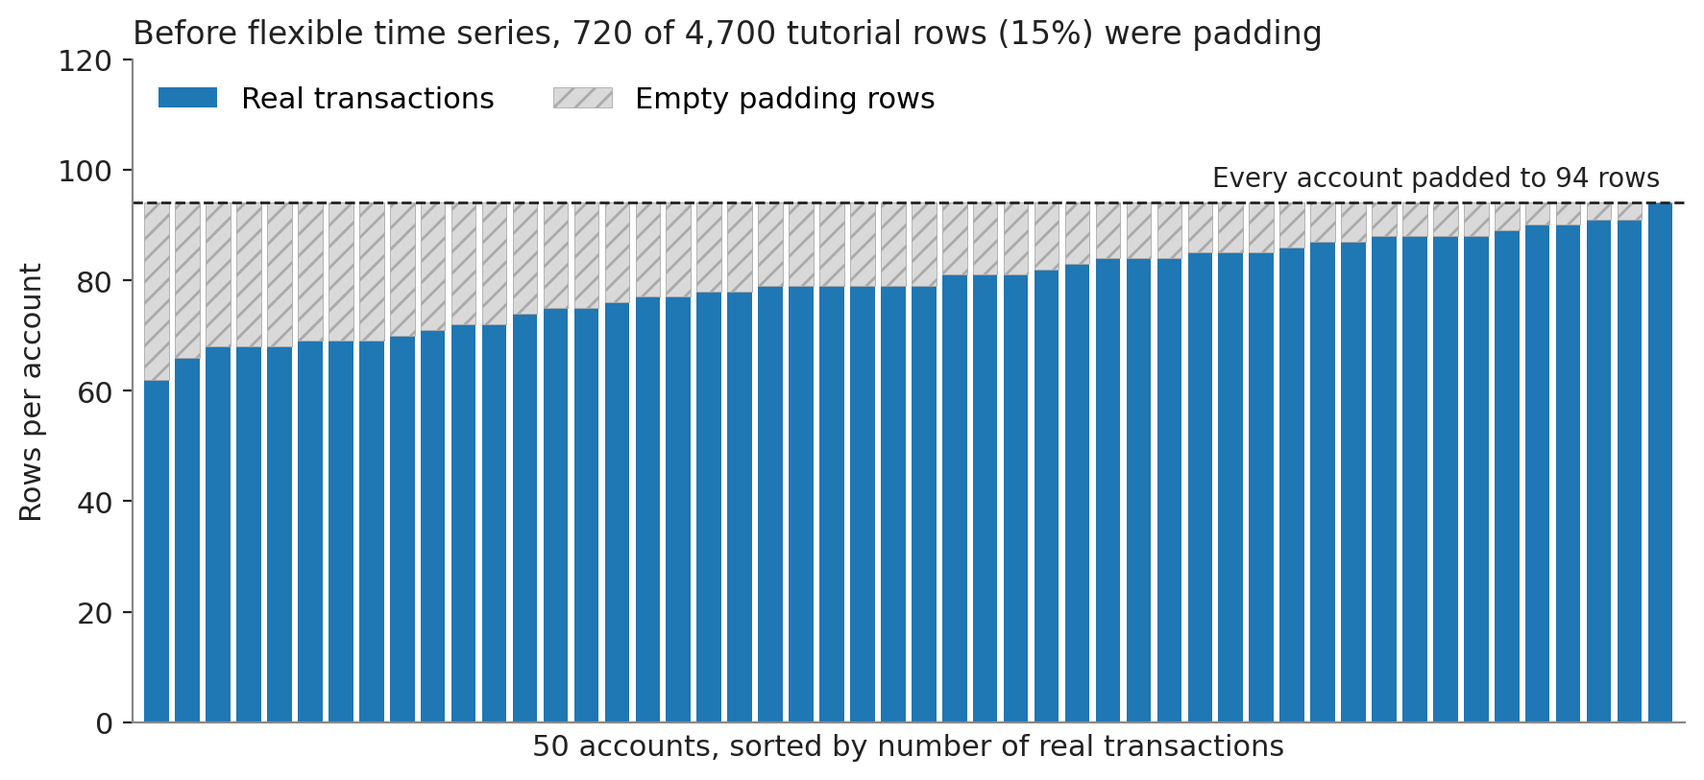
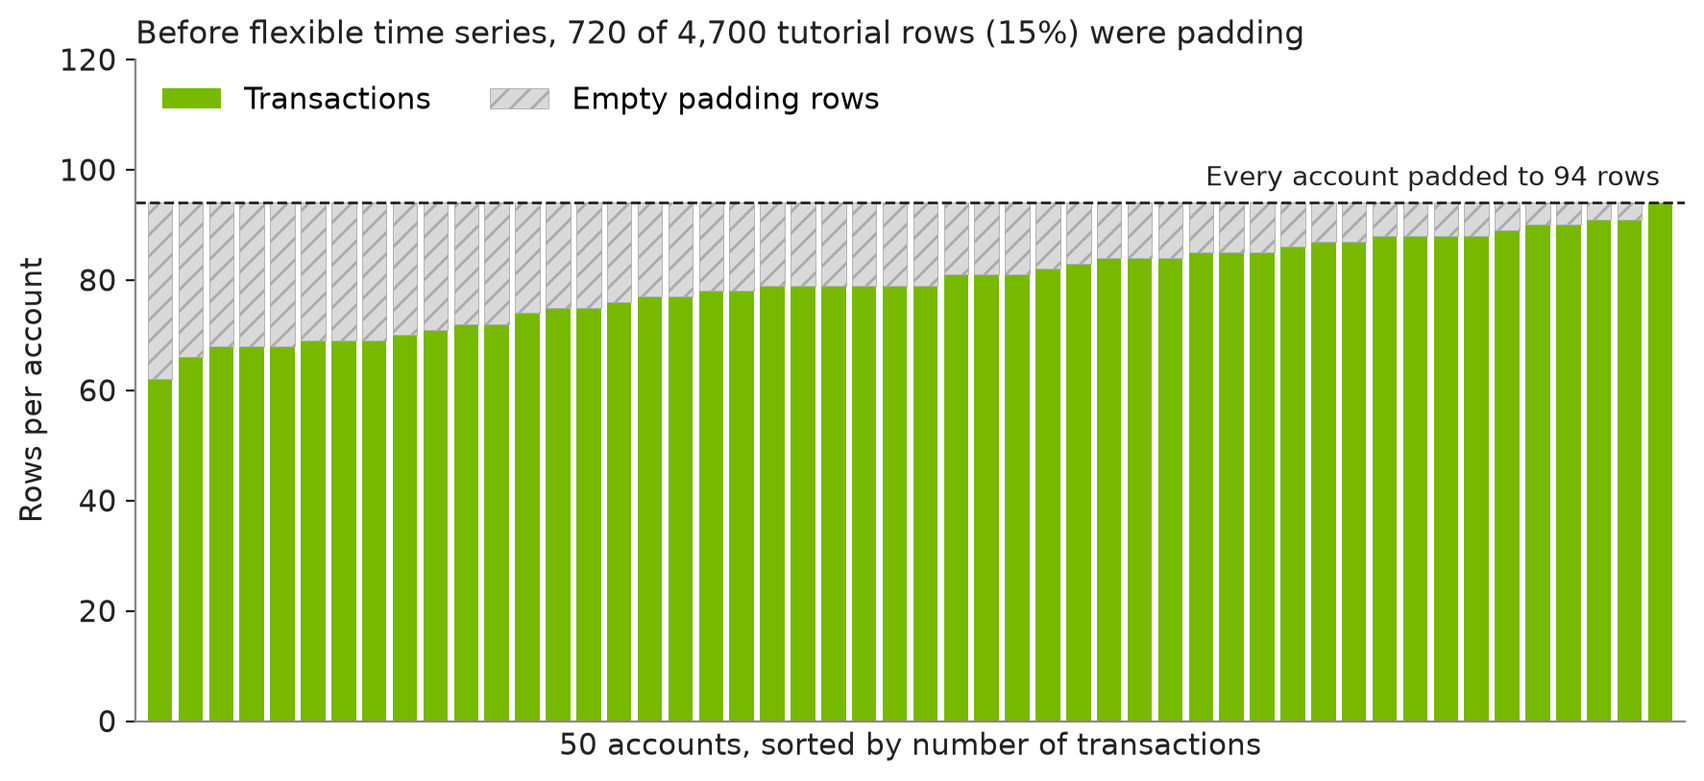
docs: address review feedback on flexible time series dev note

diff --git a/docs/dev-notes/posts/flexible-time-series.md b/docs/dev-notes/posts/flexible-time-series.md
@@ -1,109 +1,113 @@
 ---
 # SPDX-FileCopyrightText: Copyright (c) 2025-2026 NVIDIA CORPORATION & AFFILIATES. All rights reserved.
 # SPDX-License-Identifier: Apache-2.0
-date: 2026-10-21
+date: 2026-11-19
 authors:
   - seayang
 compact_tables: true
 ---
 
-# Flexible Time Series in NeMo Safe Synthesizer: Bring Your Sequences As They Are
+# Flexible Time Series
 
-Real sequences are messy. Bank accounts open and close on different days and transact whenever their owners shop. Support conversations run for six turns or seventy-five. Sensors drop out and come back. Until recently, NeMo Safe Synthesizer time-series mode asked every sequence in a dataset to look the same, with the same length, the same start and stop time, and the same fixed interval between records.
+Sequence data from real-world applications is messy. Bank accounts open and close on different days and transact whenever their owners shop. Support conversations run for six turns or seventy-five. Sensors drop out and come back. Until recently, NeMo Safe Synthesizer's time-series mode required every sequence in a dataset to look the same, with the same length, the same start and stop time, and the same fixed interval between records.
 
-That requirement is gone. Time-series mode now accepts groups with different lengths, different start and stop times, and irregular intervals. There is no new setting to turn on. You point NeMo Safe Synthesizer at your timestamp column, and it learns where each sequence begins, how it moves through time, and when it ends.
+That requirement is gone now. As of release `v0.1.15`, time-series mode accepts groups with different lengths, different start and stop times, and irregular intervals. There is no new setting to turn on. You point NeMo Safe Synthesizer at your data, configure the timestamp column, and it learns where each sequence begins, how it moves through time, and when it ends.
 
 <!-- more -->
 
-Flexible time series shipped in NeMo Safe Synthesizer `v0.1.15`. In this dev note, we cover why the old rules existed, what the workaround cost, how flexible processing works, and the research spike that decided how the model learns when a sequence ends.
+In this dev note, we cover why the old rules existed, what the workaround cost, how flexible processing works, and the experiments that decided how the model learns when a sequence ends.
 
-## The Four Rules Time Series Used to Follow
+## How Time Series Mode Used to Work
 
-Time-series mode was built on a simple idea. If every group shares the same start time, stop time, interval, and length, the generator can calculate exactly how many rows each synthetic group needs. It starts at the common start timestamp, steps forward by the interval, and stops at the common stop timestamp. The model never has to decide when a sequence is finished.
+Time-series mode was built for a simple setting. If every group shares the same start time, stop time, interval, and length, the generator can calculate exactly how many rows each synthetic group needs. It starts at the common start timestamp, steps forward by the interval, and stops at the common stop timestamp. The model never has to decide when a sequence is finished.
 
 That design works well for synchronized data, such as a fleet of sensors that all report every 15 minutes over the same day. It breaks down for most other ordered data.
 
 - Transaction histories have irregular timing. A customer may make three purchases in an hour and then none for a week.
 - Accounts, devices, and users join and leave at different times, so their histories start and stop on different dates.
-- Conversations and event logs vary in length, and their order is a position in a workflow rather than a wall-clock interval.
+- Conversations and event logs vary in length, and their order comes from each step's position in a workflow.
 
-Users asked us for exactly these cases. The only way to fit them into the old pipeline was to reshape the data by hand until every group looked identical.
+Users asked us how to use the library for exactly these styles of input data, but the workaround was awkward, requiring the user to preprocess the data manually so every group looked identical.
 
-### What the workaround cost
+### The cost of padding every sequence to one length
 
-Our own [financial transactions case study](does-nemo-safe-synthesizer-actually-work.md) is a good example. Its 50 accounts hold between 62 and 94 real transactions each, with irregular timestamps. To run it in time-series mode, the tutorial dataset padded every account to 94 rows and added a `txn_index` column, numbered 1 to 94 in each account, to stand in for the timestamp.
+Our own [financial transactions case study](does-nemo-safe-synthesizer-actually-work.md) is a good example. Its transaction ledger was generated for that case study and contains no real customer data. In a deployment, the input data would be your organization's own records. The ledger's 50 accounts hold between 62 and 94 transactions each, with irregular timestamps. To run it in time-series mode, the tutorial dataset padded every account to 94 rows and added a `txn_index` column, numbered 1 to 94 in each account, to stand in for the timestamp.
 
-![Before flexible time series, 720 of the 4,700 tutorial rows were empty padding](assets/flexible-time-series/padded-tutorial-dataset.png){: style="max-width: 820px; width: 100%; display: block; margin: 1.25rem auto;"}
-
-Each bar is one account. The blue part is real transactions, and the hatched part is padding added to reach 94 rows. Shorter accounts carried up to 32 empty rows.
+<figure markdown="span">
+  ![Before flexible time series, 720 of the 4,700 tutorial rows were empty padding](assets/flexible-time-series/padded-tutorial-dataset.png){: style="max-width: 820px; width: 100%; display: block; margin: 1.25rem auto;"}
+  <figcaption>Each vertical bar is one account. The green part holds the account's transactions, and the hatched part is padding added to reach 94 rows. Shorter accounts had up to 32 empty rows.</figcaption>
+</figure>
 
 The workaround had three costs.
 
-- Wasted training data: 720 of 4,700 rows, about 15%, carried no transaction at all, and the model still had to learn them.
-- Wasted generation: the model also had to generate the padding rows for every shorter account. Generation tokens cost more than training tokens, because the model produces them one at a time.
-- Cleanup after generation: synthetic output could contain padded rows, so the tutorial had to filter them before any analysis.
+- 720 of 4,700 training rows, about 15%, contained no transaction at all, and the model still had to learn them.
+- The model also had to generate the padding rows for every shorter account. Generation is often the slowest step in time-series mode, so every unused token made that step slower.
+- The synthetic output could contain padding rows, so users had to remove them manually from the output of NeMo Safe Synthesizer before any analysis.
 
-## How It Works
+## How Flexible Time Series Works
 
-### Automatic routing
+### Checking whether sequences are identical
 
-During training preprocessing, NeMo Safe Synthesizer checks the four rules from the previous section.
+During training preprocessing, NeMo Safe Synthesizer checks the four conditions that the original design required.
 
 - Do all groups have the same number of records?
 - Do all groups start at the same timestamp?
 - Do all groups stop at the same timestamp?
 - Is there one consistent interval within and across groups?
 
-If every answer is yes, the data keeps the original deterministic path. The endpoint can be calculated directly, so there is nothing for the model to learn about stopping. If any answer is no, the data takes the flexible path.
+If every answer is yes, the library keeps to the original code path for deterministic sequence timing. The endpoint can be calculated directly, so there is nothing for the model to learn about stopping. If any answer is no, the library takes the flexible path. We call this check routing.
 
-### Learning where each sequence ends
+### Teaching the model where each sequence ends
 
 The flexible path adds two internal columns to the training data.
 
 - `_time_idx` counts rows within each group, starting at 0. Generation checks that each new row advances it by exactly one.
-- `_is_last_row` is `true` on each group's final real row and `false` everywhere else.
+- `_is_last_row` is `True` on each group's final row and `False` everywhere else.
 
-Here are the last five rows of one real account in the training data.
+Here are the last five rows of one account in the training data.
 
 ```csv
-acct_id,_time_idx,cardholder,state,timestamp,merchant_cat,merchant,txn_amount,_is_last_row
-ACCT-013E4482,70,Alexis Parsons,CA,2025-01-28 19:54:09,entertainment,AMC Theatres,87.39,False
-ACCT-013E4482,71,Alexis Parsons,CA,2025-01-28 22:20:56,entertainment,AMC Theatres,61.56,False
-ACCT-013E4482,72,Alexis Parsons,CA,2025-01-29 17:31:22,retail,Target,139.57,False
-ACCT-013E4482,73,Alexis Parsons,CA,2025-01-31 07:44:11,subscription,Netflix,19.99,False
-ACCT-013E4482,74,Alexis Parsons,CA,2025-01-31 16:01:55,grocery,Whole Foods Market,87.15,True
+acct_id,_time_idx,_is_last_row,cardholder,state,timestamp,merchant_cat,merchant,txn_amount
+ACCT-013E4482,70,False,Alexis Parsons,CA,2025-01-28 19:54:09,entertainment,AMC Theatres,87.39
+ACCT-013E4482,71,False,Alexis Parsons,CA,2025-01-28 22:20:56,entertainment,AMC Theatres,61.56
+ACCT-013E4482,72,False,Alexis Parsons,CA,2025-01-29 17:31:22,retail,Target,139.57
+ACCT-013E4482,73,False,Alexis Parsons,CA,2025-01-31 07:44:11,subscription,Netflix,19.99
+ACCT-013E4482,74,True,Alexis Parsons,CA,2025-01-31 16:01:55,grocery,Whole Foods Market,87.15
 ```
 
-The real `timestamp` stays in the data as an ordinary generated column, so each synthetic account keeps its own irregular timing. `_time_idx` gives the generator a regular step to check, and `_is_last_row` teaches the model what a final transaction looks like.
+The source `timestamp` stays in the data as an ordinary generated column, so each synthetic account keeps its own irregular timing. `_time_idx` gives the generator a regular step to check, and `_is_last_row` teaches the model what a final transaction looks like.
 
 During generation, each group grows one row at a time.
 
 - A row is accepted only if `_time_idx` advances by one and the source timestamp does not go backward.
-- The group ends at the first accepted row with `_is_last_row` set to `true`.
+- The group ends at the first accepted row with `_is_last_row` set to `True`.
 - The longest group seen in training acts as a hard cap, so a sequence that never emits the marker still stops.
-- Both control columns are removed, and the original column order is restored before the data is returned.
+- Before the synthetic data is returned from the library, both internal columns are removed and the original column order is restored.
 
-Generation is `COMPLETE` only when every group finishes. Rows from groups that fail are discarded rather than returned as partial sequences.
+Generation is `COMPLETE` only when every group finishes. Rows from groups that fail are discarded, so the output never contains partial sequences.
 
-## Why a Final-Row Marker
+## Marking the Last Row vs. Padding Every Sequence
 
-Before building the feature, we ran a research spike to decide how the model should learn where a sequence ends. We compared two representations, and both used the same `_time_idx` column.
+Before building the feature, we ran a series of experiments to decide how the model should learn where a sequence ends. We compared two representations, and both used the same `_time_idx` column.
 
-- Final-row marker, `idx_last`: add `_is_last_row` as shown above. No rows are added.
-- Padding, `idx_padding`: extend every group to the longest group's length with rows whose source fields are all empty. The first empty row the model generates ends the group.
+- The final-row marker, `idx_last`, adds `_is_last_row` as shown above. No rows are added.
+- Padding, `idx_padding`, extends every group to the longest group's length with rows whose source fields are all empty. The first empty row the model generates ends the group.
 
-Padding is a cleaner, automated version of the old workaround. Here is how it would look for an account with 62 real transactions in a dataset whose longest account has 94.
+Padding is a cleaner, automated version of the old workaround. Below is a subset of rows for an account with 62 transactions in a dataset whose longest account has 94. `_time_idx` starts at 0, so the transactions fill rows 0 to 61 and padding fills rows 62 to 93.
 
 ```csv
 acct_id,_time_idx,cardholder,state,timestamp,merchant_cat,merchant,txn_amount
+...
 ACCT-B925FC47,59,Jermaine Nguyen,CA,2025-01-30 15:31:53,grocery,Whole Foods Market,97.71
 ACCT-B925FC47,60,Jermaine Nguyen,CA,2025-01-30 18:02:57,dining,Chipotle Mexican Grill,52.58
 ACCT-B925FC47,61,Jermaine Nguyen,CA,2025-01-30 19:25:41,entertainment,AMC Theatres,32.28
 ACCT-B925FC47,62,,,,,,
 ACCT-B925FC47,63,,,,,,
+...
+ACCT-B925FC47,93,,,,,,
 ```
 
-### Setup
+### Datasets and test setup
 
 We tested both approaches on four datasets. Two come from earlier dev notes. The other two are versions of a synthetic telecom KPI dataset that we built internally for evaluation only.
 
@@ -114,42 +118,49 @@ We tested both approaches on four datasets. Two come from earlier dev notes. The
 | Telecom KPI, variable length | 14,340 | 240 cells | 24 to 96, median 60 | Every 15 minutes |
 | [ABCD conversations](abcd-conversations-to-synthetic-training-data.md) | 176,434 | 8,034 conversations | 6 to 75, median 21 | Turn position |
 
-The two telecom datasets act as a controlled pair. The fixed-length version meets all four rules, so in production it takes the deterministic path. We ran both learned approaches on it anyway to see whether learning the endpoint helps when the endpoint is already known. The variable-length version keeps one contiguous window from each cell, so cells start and stop at different times and have different lengths, while every interval stays exactly 15 minutes. That separates the effect of variable length from the effect of irregular timing.
+The two telecom datasets act as a controlled pair. The fixed-length version meets all four conditions, so in production it takes the deterministic path. We ran both approaches on it anyway to see whether learning the endpoint helps when the endpoint is already known. The variable-length version keeps one contiguous subwindow from each group, so groups start and stop at different times and have different lengths, while every interval stays exactly 15 minutes. That separates the effect of variable length from the effect of irregular timing.
 
-All approaches fine-tuned `HuggingFaceTB/SmolLM3-3B` with the same optimizer, decoding, retry, and hardware settings, across three seeds. The generator never received a group's real length. Each group shared only the dataset-level cap, so any match to the real lengths had to be learned. A group counted as failed after three consecutive batches in which at least 80% of records were invalid or the timestamp did not advance. Token counts include prompts, retries, and discarded completions, so they reflect the full cost of producing each group. For ABCD, models trained on a 6,427-conversation split of the training data with 141,119 rows.
+Both approaches ran under the same conditions.
 
-### Results
+- Each approach fine-tuned `HuggingFaceTB/SmolLM3-3B` with the same optimizer, decoding, retry, and hardware settings.
+- We ran each approach three times, with a different random seed for training and generation on each run.
+- The generator never received a group's length from the training data. Each group shared only the dataset-level cap, so any match to the training lengths had to be learned.
+- A group counted as failed after three consecutive batches in which at least 80% of records were invalid or no new row was accepted.
+- Token counts include prompts, retries, and discarded completions, so they reflect the full cost of producing each group.
+- For ABCD, models trained on a 6,427-conversation split of the training data with 141,119 rows.
 
-All results are averages of three seeds.
+### Marking the last row was cheaper and failed less often
 
-Padding cost more to generate on every dataset where both approaches finished, and the gap grew when group lengths varied.
+Padding required more generation tokens on every dataset where both approaches finished, and the gap grew when group lengths varied.
 
 ![Generation tokens per group and group failure rate for idx_last and idx_padding on financial transactions, variable-length telecom KPI, and fixed-length telecom KPI](assets/flexible-time-series/termination-comparison.png){: style="max-width: 860px; width: 100%; display: block; margin: 1.25rem auto;"}
 
-Lower is better in both panels. Padding used 23% more generation tokens per account on financial transactions and 38% more per cell on variable-length telecom KPI. On variable-length telecom KPI, the final-row marker also used 31.6% fewer training tokens, because short cells no longer carry padded rows. Padding also failed more often. The gap was largest on financial transactions, where padding failed on almost one in five accounts and the marker failed on one in twenty-five.
+Lower is better in both panels. Padding used 23% more generation tokens per account on financial transactions and 38% more per group on variable-length telecom KPI. On variable-length telecom KPI, the final-row marker also used 31.6% fewer training tokens, because short groups no longer include padding rows. Padding also failed more often. The gap was largest on financial transactions, where padding failed on almost one in five accounts and the marker failed on one in twenty-five. Padding also took longer to generate each group, most of all on variable-length telecom KPI, at 4.20 seconds per group compared with 3.09 for the final-row marker.
 
-ABCD has the widest spread of lengths, from 6 to 75 turns, and that is where padding cost the most. Padding was not only less token efficient. It was also slower.
+ABCD has the widest spread of lengths, from 6 to 75 turns, and that is where padding cost the most.
 
 ![On ABCD, padding grew the training data from 141,119 to 482,025 rows, and in the same time budget it generated 4,633 of 6,427 conversations while idx_last generated nearly all of them](assets/flexible-time-series/abcd-padding-cost.png){: style="max-width: 820px; width: 100%; display: block; margin: 1.25rem auto;"}
 
-Padding extended all 6,427 training conversations to the 75-turn maximum, growing the training data from 141,119 to 482,025 rows, and training alone took 47.6 minutes. Both approaches ran with the same time budget. The final-row marker finished all three seeds within it, at 2,094 generation tokens per conversation and with about one conversation per seed failing to finish. In that same time, the first padding seed generated only 4,633 of the 6,427 conversations, about 72%, so we did not run the other two padding seeds.
+Padding extended all 6,427 training conversations to the 75-turn maximum, increasing the training data from 141,119 to 482,025 rows. Padding was also slower. Training took 47.6 minutes, compared with 20.4 minutes for `idx_last`. Both approaches ran with the same time budget. The final-row marker finished all three runs within it, completing generation in about 38 minutes at 2,094 generation tokens per conversation, with about one conversation per run failing to finish. The first padding run timed out after generating 4,633 of the 6,427 conversations, about 72%, so we did not run padding again.
 
-| Dataset | Approach | Groups failed | Generation tokens per group | Mean generated length | Mean real length |
-|---|---|---:|---:|---:|---:|
-| Financial transactions | `idx_last` | 4.0% | 7,351 | 85.4 | 79.6 |
-| Financial transactions | `idx_padding` | 18.7% | 9,026 | 85.4 | 79.6 |
-| Telecom KPI, variable length | `idx_last` | 4.2% | 12,280 | 64.1 | 59.9 |
-| Telecom KPI, variable length | `idx_padding` | 5.0% | 16,927 | 73.8 | 59.9 |
-| Telecom KPI, fixed length | `idx_last` | 5.6% | 17,684 | 92.1 | 96.0 |
-| Telecom KPI, fixed length | `idx_padding` | 7.1% | 18,021 | 90.5 | 96.0 |
-| ABCD conversations | `idx_last` | 0.016% | 2,094 | 21.3 | 22.0 |
-| ABCD conversations | `idx_padding` | Did not finish (72% generated) | — | — | 22.0 |
+| Dataset | Approach | Groups failed | Generation tokens per group | Generation seconds per group | Mean generated length | Mean training length |
+|---|---|---:|---:|---:|---:|---:|
+| Financial transactions | `idx_last` | 4.0% | 7,351 | 2.70 | 85.4 | 79.6 |
+| Financial transactions | `idx_padding` | 18.7% | 9,026 | 3.15 | 85.4 | 79.6 |
+| Telecom KPI, variable length | `idx_last` | 4.2% | 12,280 | 3.09 | 64.1 | 59.9 |
+| Telecom KPI, variable length | `idx_padding` | 5.0% | 16,927 | 4.20 | 73.8 | 59.9 |
+| Telecom KPI, fixed length | `idx_last` | 5.6% | 17,684 | 4.56 | 92.1 | 96.0 |
+| Telecom KPI, fixed length | `idx_padding` | 7.1% | 18,021 | 4.67 | 90.5 | 96.0 |
+| ABCD conversations | `idx_last` | 0.016% | 2,094 | 0.35 | 21.3 | 22.0 |
+| ABCD conversations | `idx_padding` | Timed out | — | — | — | 22.0 |
 
-The final-row marker also tracked real lengths more closely when lengths varied. Without seeing any real lengths, it produced ABCD conversations within one turn of the real average, and on variable-length telecom KPI it averaged 64.1 records per cell against a real 59.9, while padding ran to 73.8. On financial transactions, both approaches generated accounts about six transactions longer than the real average. Both telecom datasets kept valid, in-order timestamps with exact 15-minute intervals under either approach.
+Results are averages of three runs, except ABCD padding, which ran once. Generation seconds per group is the wall-clock generation time on one H100 divided by the number of requested groups, excluding model loading and evaluation. It depends on how many groups are generated in parallel, so compare it within a dataset. ABCD looks fastest because it generates 6,427 short groups in large batches. Token counts are the comparable measure across datasets.
 
-### Why fixed-shape data stays deterministic
+The final-row marker also tracked training lengths more closely when lengths varied. Without receiving any group's length, it produced ABCD conversations within one turn of the training average. On variable-length telecom KPI, it averaged 64.1 records per group against 59.9 in the training data, while padding ran to 73.8. On financial transactions, both approaches generated accounts about six transactions longer than the training average. Both telecom datasets kept valid, in-order timestamps with exact 15-minute intervals under either approach.
 
-The fixed-length telecom dataset is the control. Every cell has exactly 96 records, so padding adds no rows at all. The two learned approaches came out nearly tied, with generation tokens within 2% of each other. Neither reproduced the length exactly. The final-row marker averaged 92.1 records per cell, and padding averaged 90.5.
+### Why identical sequences keep the original method
+
+The fixed-length telecom dataset is the control. Every group has exactly 96 records, so padding adds no rows at all. The two approaches came out nearly tied, with generation tokens within 2% of each other. Neither reproduced the length exactly. The final-row marker averaged 92.1 records per group, and padding averaged 90.5.
 
 The deterministic path does not have to guess. It calculates each group's endpoint from the shared start, stop, and interval. When all four checks pass, learning the endpoint adds work without a benefit, so NeMo Safe Synthesizer keeps the deterministic path for fixed-shape data and uses the final-row marker for everything else.
 
@@ -157,10 +168,10 @@ The deterministic path does not have to guess. It calculates each group's endpoi
 
 - Time-series mode now accepts sequences as they are. Groups can differ in length, start time, stop time, and interval, with no new configuration.
 - Routing is automatic. Fixed-shape data keeps deterministic generation, and everything else learns its own endpoint through a final-row marker.
-- No padding is needed. In our research spike, the final-row marker used fewer generation tokens and failed less often than padding on every dataset where both completed. On ABCD, with the same time budget, the final-row marker finished while padding generated only 72% of the conversations.
+- No padding is needed. In our experiments, the final-row marker used fewer generation tokens and failed less often than padding on every dataset where both completed. On ABCD, with the same time budget, the final-row marker finished while padding timed out after generating 72% of the conversations.
 
 ## Try It
 
-The [financial transactions tutorial](../../tutorials/time-series-financial-transactions.ipynb) now runs on the raw transaction ledger, with real timestamps and no padding. The [time-series configuration reference](../../user-guide/configuration.md#time-series) covers the timestamp and interval settings, and the [time-series troubleshooting guide](../../user-guide/troubleshooting.md#time-series) explains common validation errors.
+The [financial transactions tutorial](../../tutorials/time-series-financial-transactions.ipynb) now runs on the raw transaction ledger, with its original irregular timestamps and no padding. The [time-series configuration reference](../../user-guide/configuration.md#time-series) covers the timestamp and interval settings, and the [time-series troubleshooting guide](../../user-guide/troubleshooting.md#time-series) explains common validation errors.
 
 Have a sequence dataset that still does not fit? Open a [GitHub discussion](https://github.com/NVIDIA-NeMo/Safe-Synthesizer/discussions) or file a [feature request](https://github.com/NVIDIA-NeMo/Safe-Synthesizer/issues).
